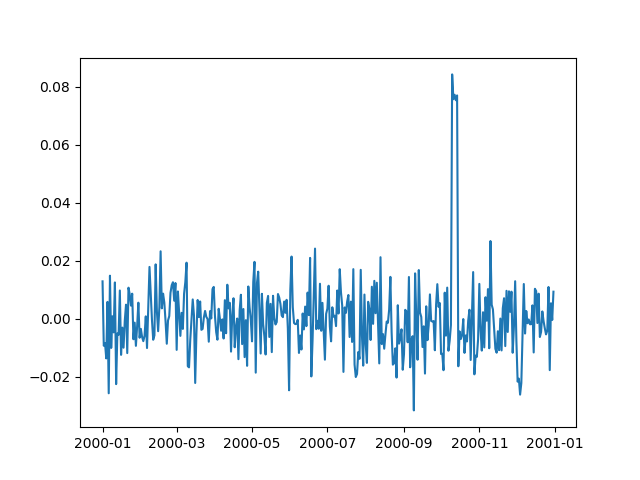
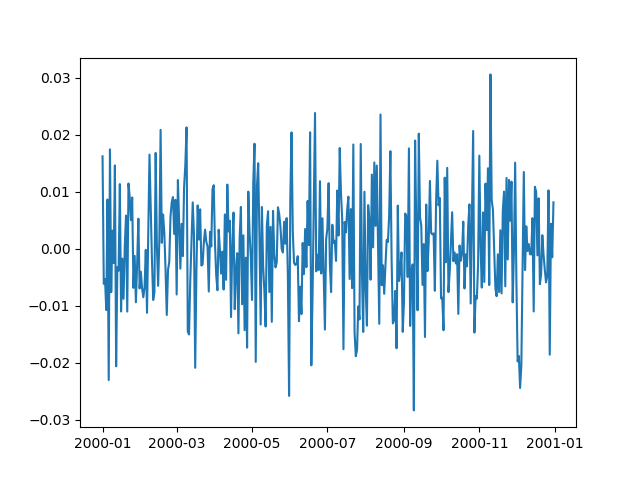
Updated tutorials Turns out the usage of lsmr in the solvers was pretty bad...

diff --git a/docsrc/tutorial.rst b/docsrc/tutorial.rst
@@ -128,13 +128,13 @@ in. To this end, we must first associate our models with the timeseries at the s
     >>> for model_description, model in collection.items():
     ...     synth_stat.add_local_model("Data", model_description, model)
 
-For the fitting, we first import a solver function from the :mod:`~geonat.solvers` module,
-and then call it to give us a dictionary of the fitted parameters. We will start with
-basic, linear, non-regularized least-squares:
+For the fitting, we first import a solver function from the :doc:`Solvers <geonat/solvers>`
+module, and then call it to give us a dictionary of the fitted parameters. We will start
+with basic, linear, non-regularized least-squares:
 
 .. doctest:: tut1
 
-    >>> from geonat.solvers import linear_regression  # noqa: E402
+    >>> from geonat.solvers import linear_regression
     >>> fitted_params = linear_regression(ts=synth_stat["Data"],
     ...                                   models=synth_stat.models["Data"])
 
@@ -147,9 +147,9 @@ basic, linear, non-regularized least-squares:
 With the solver finished, we want to do multiple things for all models:
 
 1. Give the models their best-fit parameters as returned by the solver using the
-   :meth:`~geonat.model.Model.read_parameters` method.
+   :meth:`~geonat.models.Model.read_parameters` method.
 2. Calculate the clean trajectory for that model given the best-fit parameters using the
-   :meth:`~geonat.model.Model.evaluate` method.
+   :meth:`~geonat.models.Model.evaluate` method.
 3. Add the evaluated trajectory to the station as a "fit" using the
    :meth:`~geonat.station.Station.add_fit` method.
 
@@ -201,8 +201,7 @@ function already created a new timeseries object on the way, which we can now pl
     >>> plt.savefig("tutorial_1b.png")
     >>> plt.close()
 
-As we can see, the model matches the data pretty well, but we can see some trade-off
-happening between two of our added steps:
+As we can see, the model matches the data pretty well:
 
 .. image:: img/tutorial_1b.png
 
@@ -215,8 +214,8 @@ Timeseries object that can be added to the station.
     >>> synth_stat["Residual"] = synth_stat["Data"] - synth_stat["Modeled"]
     >>> stats_dict = synth_stat.analyze_residuals(ts_description="Residual",
     ...                                           mean=True, std=True, verbose=True)
-    TUT: Residual      Mean  Standard Deviation
-    total-total   -0.010102            0.131602
+    TUT: Residual          Mean  Standard Deviation
+    total-total   -6.785812e-15            0.009595
 
 And we can plot it like before::
 
@@ -253,7 +252,7 @@ Let's start with creating the timestamps for our synthetic data:
 
 .. doctest:: tut2
 
-    >>> import pandas as pd  # noqa: E402
+    >>> import pandas as pd
     >>> t_start_str = "2000-01-01"
     >>> t_end_str = "2020-01-01"
     >>> timevector = pd.date_range(start=t_start_str, end=t_end_str, freq="1D")
@@ -264,7 +263,7 @@ If you have any question about this, please refer to the previous tutorial.
 
 .. doctest:: tut2
 
-    >>> from geonat.models import Arctangent, Polynomial, Sinusoidal  # noqa: E402
+    >>> from geonat.models import Arctangent, Polynomial, Sinusoidal
     >>> mdl_secular = Polynomial(order=1, t_reference=t_start_str)
     >>> mdl_annual = Sinusoidal(period=365.25, t_reference=t_start_str)
     >>> mdl_semiannual = Sinusoidal(period=365.25/2, t_reference=t_start_str)
@@ -285,7 +284,7 @@ is hard, we'll omit them here, and try to approximate them with other models lat
 
 .. doctest:: tut2
 
-    >>> from copy import deepcopy  # noqa: E402
+    >>> from copy import deepcopy
     >>> mdl_coll = deepcopy({"Secular": mdl_secular,
     ...                      "Annual": mdl_annual,
     ...                      "Semi-Annual": mdl_semiannual})
@@ -294,7 +293,7 @@ Now that we have a copy for safekeeping, we can add the "true" parameters to the
 
 .. doctest:: tut2
 
-    >>> import numpy as np  # noqa: E402
+    >>> import numpy as np
     >>> mdl_secular.read_parameters(np.array([-20, 200/(20*365.25)]))
     >>> mdl_annual.read_parameters(np.array([-5, 0]))
     >>> mdl_semiannual.read_parameters(np.array([0, 5]))
@@ -320,7 +319,7 @@ GeoNAT's :func:`~geonat.tools.create_powerlaw_noise` function:
 
 .. doctest:: tut2
 
-    >>> from geonat.tools import create_powerlaw_noise  # noqa: E402
+    >>> from geonat.tools import create_powerlaw_noise
     >>> rng = np.random.default_rng(0)
     >>> white_noise = rng.normal(scale=2, size=timevector.size)
     >>> colored_noise = create_powerlaw_noise(size=timevector.size,
@@ -336,8 +335,8 @@ and the total noise ``sum_noise``:
 
 Let's have a look what we fabricated::
 
-    >>> import matplotlib.pyplot as plt  # noqa: E402
-    >>> from pandas.plotting import register_matplotlib_converters  # noqa: E402
+    >>> import matplotlib.pyplot as plt
+    >>> from pandas.plotting import register_matplotlib_converters
     >>> register_matplotlib_converters()  # improve how time data looks
     >>> plt.plot(timevector, sum_seas_sec, c='C1', label="Seasonal + Secular")
     >>> plt.plot(timevector, sum_transient, c='k', label="Transient")
@@ -368,11 +367,11 @@ model collection from before:
 
 .. doctest:: tut2
 
-    >>> from geonat.models import ISpline, SplineSet  # noqa: E402
+    >>> from geonat.models import ISpline, SplineSet
     >>> mdl_coll["Transient"] = SplineSet(degree=2,
     ...                                   t_center_start=t_start_str,
     ...                                   t_center_end=t_end_str,
-    ...                                   list_num_knots=[4, 8, 16, 32, 32, 64],
+    ...                                   list_num_knots=[4, 8, 16, 32, 64, 128],
     ...                                   splineclass=ISpline)
 
 It creates sets of integrated B-Splines of degree 2, with the timespan
@@ -390,7 +389,7 @@ we'll also assign it to a :class:`~geonat.network.Network` object:
 
 .. doctest:: tut2
 
-    >>> from geonat import Network, Station, Timeseries  # noqa: E402
+    >>> from geonat import Network, Station, Timeseries
     >>> net_name = "TutorialLand"
     >>> stat_name = "TUT"
     >>> caltech_lla = (34.1375, -118.125, 263)
@@ -451,8 +450,8 @@ residuals and print some statistics:
     >>> stat["Res_noreg"] = stat["Displacement"] - stat["Fit_noreg"]
     >>> _ = stat.analyze_residuals(ts_description="Res_noreg",
     ...                            mean=True, std=True, verbose=True)
-    TUT: Res_noreg      Mean  Standard Deviation
-    Total-Total    -0.000058            5.492932
+    TUT: Res_noreg          Mean  Standard Deviation
+    Total-Total    -6.178836e-10            2.027383
 
 Advanced plotting
 .................
@@ -478,7 +477,7 @@ What do our fit and residuals look like compared to the data and noise, respecti
 
 We can use a scalogram (see :meth:`~geonat.models.SplineSet.make_scalogram`) to visualize
 the coefficient values of our spline collection, and quickly understand that without
-regularization, the set is quite heavily populated::
+regularization, the set is quite heavily populated in order to minimize the residuals::
 
     >>> fig, ax = stat.models["Displacement"]["Transient"].make_scalogram(t_left=t_start_str,
     ...                                                                   t_right=t_end_str,
@@ -501,8 +500,8 @@ solver:
     >>> stat["Res_L2"] = stat["Fit_L2"] - stat["Truth"]
     >>> _ = stat.analyze_residuals(ts_description="Res_L2",
     ...                            mean=True, std=True, verbose=True)
-    TUT: Res_L2      Mean  Standard Deviation
-    Total-Total  0.082051            5.292588
+    TUT: Res_L2     Mean  Standard Deviation
+    Total-Total  0.08194            1.550079
 
 ::
 
@@ -532,15 +531,16 @@ solver:
 
 .. image:: img/tutorial_2e.png
 
-We can see that L2 regularization has still not really improved our results. A better
+We can see that L2 regularization has  improved our fit to the noise better (it's now
+following the mean of the noise), but the dictionary is still densely populated. A better
 penalty parameter might help, but determining a better one is outside the scope of this
 tutorial.
 
 Repeat with L1 regularization
 .............................
 
-Aaaand once more because it was so much fun, the same with a lasso regression
-(L1-regularized) solver:
+Using L1-regularized lasso regression, we finally hope to get rid of large signals in the
+transient dictionary:
 
 .. doctest:: tut2
 
@@ -549,8 +549,8 @@ Aaaand once more because it was so much fun, the same with a lasso regression
     >>> stat["Res_L1"] = stat["Fit_L1"] - stat["Truth"]
     >>> _ = stat.analyze_residuals(ts_description="Res_L1",
     ...                            mean=True, std=True, verbose=True)
-    TUT: Res_L1     Mean  Standard Deviation
-    Total-Total  0.08194            1.489682
+    TUT: Res_L1      Mean  Standard Deviation
+    Total-Total  0.081941            1.542697
 
 ::
 
@@ -581,15 +581,83 @@ Aaaand once more because it was so much fun, the same with a lasso regression
 .. image:: img/tutorial_2g.png
 
 This looks much better - the scalogram now shows us that we only select splines around
-where we put the Arctangent models, and is close to zero otherwise. Also notice how
-the variance of the residual has considerably decreased (in fact, to the level of
-the noise we used).
+where we put the Arctangent models, and is close to zero otherwise.
+
+Adding reweighting iterations
+.............................
+
+Okay, one last thing about fitting, I promise. L1 regularization aims to penalize the sum of
+the absolute values of our model parameters. However, that's also not actually what we want.
+In fact, transient signals in the real world have no constraint to be as small as possible.
+However, the *number* of transients should be the one that is minimized. That is what is
+mathematically referred to as L0 regularization, but is sadly not an easy problem to solve
+rigorously.
+
+However, by modifiying an additional weight of each regularized parameter, that drives small
+values even closer to zero, but leaves significant values unperturbed, one can approximate
+such an L0 regularization by iteratively solving the L1-regularized problem. That is exactly
+what the option ``reweight_max_iters`` does. Let's try it:
+
+.. doctest:: tut2
+
+    >>> net.fit(ts_description="Displacement", solver="lasso_regression",
+    ...         penalty=10, reweight_max_iters=5)
+    >>> net.evaluate(ts_description="Displacement", output_description="Fit_L1R")
+    >>> stat["Res_L1R"] = stat["Fit_L1R"] - stat["Truth"]
+    >>> _ = stat.analyze_residuals(ts_description="Res_L1R",
+    ...                            mean=True, std=True, verbose=True)
+    TUT: Res_L1R      Mean  Standard Deviation
+    Total-Total   0.081941            1.500508
+
+::
+
+    >>> fig, ax = plt.subplots(nrows=2, sharex=True)
+    >>> ax[0].plot(stat["Displacement"].data, label="Synthetic")
+    >>> ax[0].plot(stat["Fit_L1R"].data, label="Fit")
+    >>> ax[0].set_ylabel("Displacement [mm]")
+    >>> ax[0].legend(loc="upper left")
+    >>> ax[0].set_title("Reweighted L1 Regularization")
+    >>> ax[1].plot(stat["Displacement"].time, sum_noise, c='0.3', ls='none',
+    ...            marker='.', markersize=0.5, label="Noise")
+    >>> ax[1].plot(stat["Res_L1R"].data, c="C1", label="Residual")
+    >>> ax[1].set_ylim(-15, 15)
+    >>> ax[1].set_ylabel("Error [mm]")
+    >>> ax[1].legend(loc="lower left")
+    >>> fig.savefig("tutorial_2h.png")
+
+.. image:: img/tutorial_2h.png
+
+::
+
+    >>> fig, ax = stat.models["Displacement"]["Transient"].make_scalogram(t_left=t_start_str,
+    ...                                                                   t_right=t_end_str,
+    ...                                                                   cmaprange=30)
+    >>> ax[0].set_title("Reweighted L1 Regularization")
+    >>> fig.savefig("tutorial_2i.png")
+
+.. image:: img/tutorial_2i.png
+
+As you can see, the significant components of the splines have now been emphasized when
+compared to the previous scalogram, and all the values that were small but not really
+zero in the previous case are now *really* close to zero.
+
+.. note::
+    If you run this example by yourself, you might get a CVXPY warning about how the
+    solution may be inaccurate. This is (probably) because our problem is very
+    ill-conditioned, and we have noise in our data. Unless CVXPY outright fails, this
+    is therefore probablty okay for us, even though you always want to check your
+    results for plausibility.
+
+    You can always filter out ``UserWarning`` appearances if you don't want to see them,
+    or increase the CVXPY solver tolerance using the ``cvxpy_kw_args`` argument in
+    :func:`~geonat.solvers.lasso_regression` (although that might require a balancing act
+    to ensure you're actually not worsening the solution you get).
 
 Comparing specific parameters
 .............................
 
 Before we finish up, let's just print some differences between the ground truth and our
-L1-fitted model:
+L1R-fitted model:
 
 .. doctest:: tut2
 
@@ -609,26 +677,26 @@ L1-fitted model:
     ...       f"Percent Error Semi-Annual Amplitude: {reldiff_sem_amp: %}\n"
     ...       f"Absolute Error Annual Phase:         {absdiff_ann_ph: f} rad\n"
     ...       f"Absolute Error Semi-Annual Phase:    {absdiff_sem_ph: f} rad")
-    Percent Error Constant:              -54.570401%
-    Percent Error Linear:                -3.145957%
-    Percent Error Annual Amplitude:       0.885484%
-    Percent Error Semi-Annual Amplitude: -0.257911%
-    Absolute Error Annual Phase:          0.002316 rad
-    Absolute Error Semi-Annual Phase:    -0.014732 rad
+    Percent Error Constant:              -40.699837%
+    Percent Error Linear:                -28.560247%
+    Percent Error Annual Amplitude:       0.051154%
+    Percent Error Semi-Annual Amplitude:  1.597074%
+    Absolute Error Annual Phase:          6.227154 rad
+    Absolute Error Semi-Annual Phase:     0.000231 rad
 
-Apart from the trade-off between the constant and linear trend, which can be expected,
-we got pretty close to our ground truth. Let's finish up by calculating an average
-velocity of the station using :meth:`~geonat.station.Station.get_trend` around the
-time when it's rapidly moving (around the middle of 2002). We don't want a normal
-trend through the data, since that is also influenced by the secular velocity, the
-noise, etc., so we choose to only fit our transient model:
+Apart from the trade-off between the polynomial trend and long-term splines, which can be
+expected, we got pretty close to our ground truth. Let's finish up by calculating an average
+velocity of the station using :meth:`~geonat.station.Station.get_trend` around the time when
+it's rapidly moving (around the middle of 2002). We don't want a normal trend through the
+data, since that is also influenced by the secular velocity, the noise, etc., so we choose
+to only fit our transient model:
 
 .. doctest:: tut2
 
     >>> trend, _ = stat.get_trend("Displacement", model_list=["Transient"],
     ...                           t_start="2002-06-01", t_end="2002-08-01")
     >>> print(f"Transient Velocity: {trend[0]:f} {ts.data_unit}/D")
-    Transient Velocity: 0.231396 mm/D
+    Transient Velocity: 0.241203 mm/D
 
 We can use average velocities like these when we want to create velocity maps for
 certain episodes.
